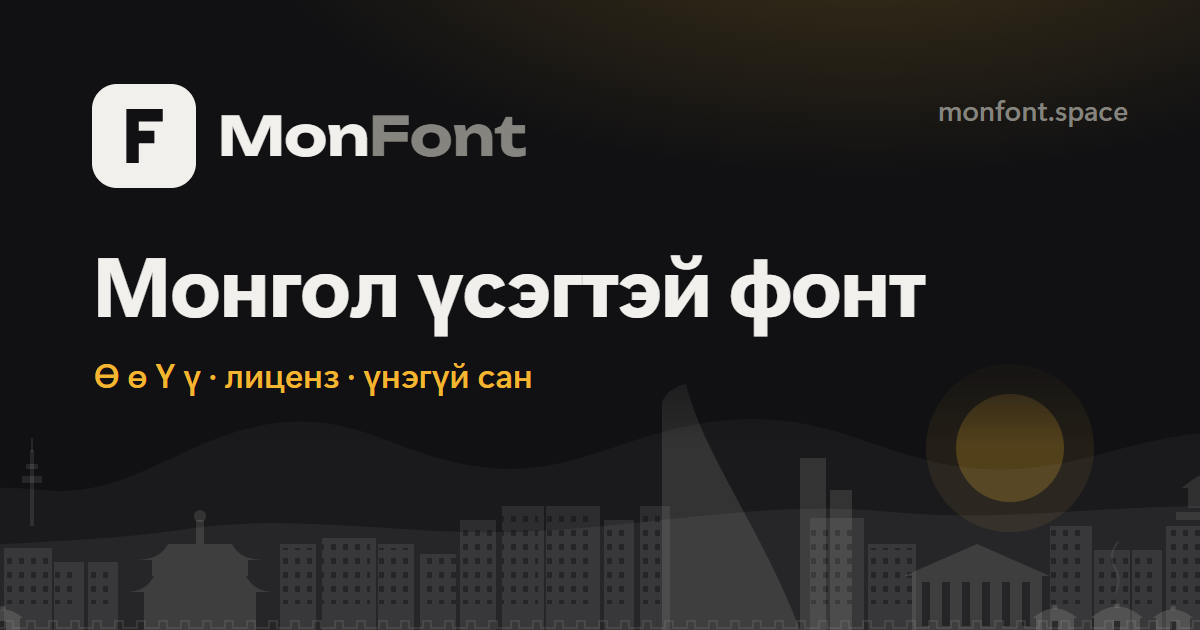
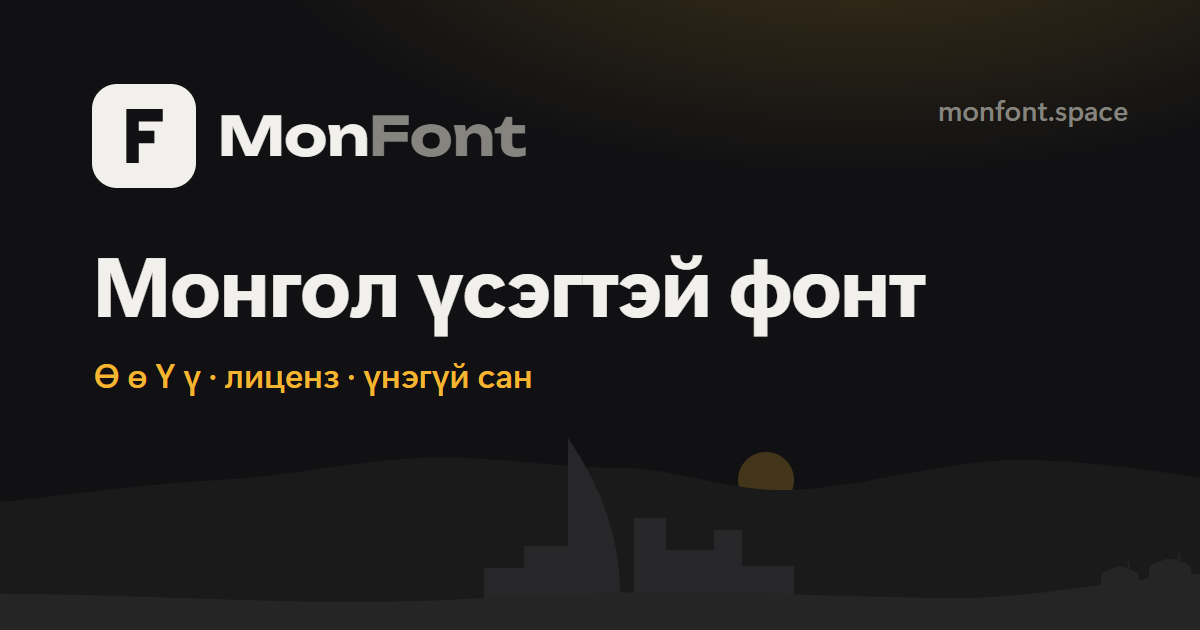
Calmer background: Ulaanbaatar at dusk in three flat tones
Redrawn by an Opus designer agent: one Bogd Khan ridge, the Blue Sky Tower
sail with a small block cluster, a foreground hill with three gers and a
half-set sun. Removed the window patterns, extra landmarks, smoke and border.
SVG is 1.8 KB (was 7.9 KB); tones live in the SVG, so the .skyline opacity
rule is gone. Share card re-rendered with the same artwork.

Changed region(s): [[0.0, 0.6032, 1.0, 1.0]]

diff --git a/tools/og.html b/tools/og.html
@@ -8,7 +8,7 @@
 body { margin:0; width:1200px; height:630px; position:relative; overflow:hidden; color:var(--ink);
   font:400 16px "Segoe UI Variable Text","Segoe UI",system-ui,sans-serif;
   background:radial-gradient(900px 420px at 72% -120px, color-mix(in srgb, var(--star) 22%, transparent), transparent 70%) no-repeat, var(--bg); }
-.sky { position:absolute; left:0; right:0; bottom:0; height:300px; color:var(--ink); opacity:.78;
+.sky { position:absolute; left:0; right:0; bottom:0; height:300px; color:var(--ink); opacity:1;
   -webkit-mask-image:linear-gradient(to top,#000 62%,transparent); mask-image:linear-gradient(to top,#000 62%,transparent); }
 .sky svg { display:block; width:100%; height:100%; }
 .logo { position:absolute; left:92px; top:84px; display:flex; align-items:center; gap:22px; }
@@ -19,7 +19,7 @@ p { position:absolute; left:94px; top:352px; margin:0; font:600 34px/1.3 "Segoe 
 .url { position:absolute; right:72px; top:96px; font:600 28px/1 "Segoe UI Variable Display","Segoe UI",system-ui,sans-serif; color:var(--ink-3); }
 </style>
 <body>
-<div class="sky"><svg viewBox="0 0 1600 300" preserveAspectRatio="xMidYMax slice" xmlns="http://www.w3.org/2000/svg" aria-hidden="true"><g fill="currentColor"><defs><pattern id="skw" width="12" height="14" patternUnits="userSpaceOnUse"><rect x="3" y="4" width="5" height="6" rx="1" style="fill:var(--bg)"/></pattern><pattern id="skm" width="22" height="12" patternUnits="userSpaceOnUse"><path d="M0 10H7V3H15V10H22" fill="none" stroke="currentColor" stroke-width="1.6"/></pattern></defs><circle cx="1210" cy="118" r="54" style="fill:var(--star)" fill-opacity=".30"/><circle cx="1210" cy="118" r="84" style="fill:var(--star)" fill-opacity=".10"/><path fill-opacity=".055" d="M0 212C90 176 150 150 240 160C330 170 380 108 470 94C560 80 600 130 690 138C780 146 830 98 930 90C1030 82 1080 128 1170 138C1260 148 1320 110 1410 102C1480 96 1540 130 1600 152V300H0Z"/><path fill-opacity=".075" d="M0 238C140 208 260 218 380 200C500 182 600 206 720 202C860 196 960 170 1090 182C1220 194 1330 170 1460 178C1520 182 1570 192 1600 198V300H0Z"/><g fill-opacity=".13"><rect x="230" y="120" width="4" height="76"/><rect x="222" y="146" width="20" height="7"/><rect x="226" y="134" width="12" height="5"/><rect x="231" y="108" width="2" height="14"/><path d="M1388 178V158H1456V178Z"/><path d="M1382 158Q1422 122 1462 158Z"/><rect x="1419" y="112" width="3" height="16"/><path d="M1376 182H1468V190H1376Z"/></g><g fill-opacity=".11"><rect x="20" y="206" width="42" height="94"/><rect x="66" y="218" width="30" height="82"/><rect x="102" y="196" width="30" height="104"/><rect x="138" y="232" width="30" height="68"/><rect x="170" y="218" width="30" height="82"/><rect x="204" y="218" width="48" height="82"/><rect x="254" y="232" width="30" height="68"/><rect x="288" y="232" width="30" height="68"/><rect x="480" y="214" width="36" height="86"/><rect x="522" y="208" width="54" height="92"/><rect x="578" y="214" width="36" height="86"/><rect x="620" y="224" width="36" height="76"/><rect x="660" y="190" width="36" height="110"/><rect x="702" y="176" width="42" height="124"/><rect x="746" y="176" width="54" height="124"/><rect x="804" y="190" width="30" height="110"/><rect x="840" y="176" width="30" height="124"/><rect x="1010" y="188" width="54" height="112"/><rect x="1068" y="214" width="48" height="86"/><rect x="1250" y="196" width="42" height="104"/><rect x="1294" y="220" width="36" height="80"/><rect x="1332" y="220" width="30" height="80"/><rect x="1366" y="196" width="54" height="104"/><rect x="1470" y="202" width="48" height="98"/><rect x="1524" y="214" width="30" height="86"/><rect x="1560" y="214" width="48" height="86"/></g><g opacity=".5"><rect x="20" y="210" width="36" height="64" fill="url(#skw)"/><rect x="66" y="222" width="24" height="52" fill="url(#skw)"/><rect x="102" y="200" width="24" height="74" fill="url(#skw)"/><rect x="138" y="236" width="24" height="38" fill="url(#skw)"/><rect x="170" y="222" width="24" height="52" fill="url(#skw)"/><rect x="204" y="222" width="48" height="52" fill="url(#skw)"/><rect x="254" y="236" width="24" height="38" fill="url(#skw)"/><rect x="288" y="236" width="24" height="38" fill="url(#skw)"/><rect x="480" y="218" width="36" height="56" fill="url(#skw)"/><rect x="522" y="212" width="48" height="62" fill="url(#skw)"/><rect x="578" y="218" width="36" height="56" fill="url(#skw)"/><rect x="620" y="228" width="36" height="46" fill="url(#skw)"/><rect x="660" y="194" width="36" height="80" fill="url(#skw)"/><rect x="702" y="180" width="36" height="94" fill="url(#skw)"/><rect x="746" y="180" width="48" height="94" fill="url(#skw)"/><rect x="804" y="194" width="24" height="80" fill="url(#skw)"/><rect x="840" y="180" width="24" height="94" fill="url(#skw)"/><rect x="1010" y="192" width="48" height="82" fill="url(#skw)"/><rect x="1068" y="218" width="48" height="56" fill="url(#skw)"/><rect x="1250" y="200" width="36" height="74" fill="url(#skw)"/><rect x="1294" y="224" width="36" height="50" fill="url(#skw)"/><rect x="1332" y="224" width="24" height="50" fill="url(#skw)"/><rect x="1366" y="200" width="48" height="74" fill="url(#skw)"/><rect x="1470" y="206" width="48" height="68" fill="url(#skw)"/><rect x="1524" y="218" width="24" height="56" fill="url(#skw)"/><rect x="1560" y="218" width="48" height="56" fill="url(#skw)"/></g><g fill-opacity=".15"><path d="M862 300V72C866 62 876 56 886 54C902 122 962 200 1000 300Z"/><path d="M872 300V60C874 96 880 120 890 144" fill="none" stroke="currentColor" stroke-opacity=".0"/><rect x="1000" y="128" width="26" height="172"/><rect x="1030" y="160" width="22" height="140"/><path d="M326 262Q346 262 354 246H446Q454 262 474 262Z"/><rect x="344" y="262" width="112" height="38"/><path d="M352 246V230H448V246Z"/><path d="M336 230Q360 230 368 214H432Q440 230 464 230Z"/><rect x="396" y="190" width="8" height="24"/><circle cx="400" cy="186" r="6"/><rect x="1112" y="246" width="130" height="54"/><path d="M1104 246L1177 214L1250 246Z"/></g><g style="fill:var(--bg)" fill-opacity=".55"><rect x="1122" y="252" width="8" height="44"/><rect x="1142" y="252" width="8" height="44"/><rect x="1162" y="252" width="8" height="44"/><rect x="1182" y="252" width="8" height="44"/><rect x="1202" y="252" width="8" height="44"/><rect x="1222" y="252" width="8" height="44"/></g><g fill-opacity=".2"><path d="M18 300V288H58V300Z"/><path d="M15 288Q38.0 268.0 61 288Z"/><rect x="35.5" y="275.0" width="5" height="4"/></g><rect x="35.0" y="291" width="6" height="9" style="fill:var(--bg)" fill-opacity=".6"/><g fill-opacity=".2"><path d="M74 300V288H108V300Z"/><path d="M71 288Q91.0 271.0 111 288Z"/><rect x="88.5" y="276.2" width="5" height="4"/></g><rect x="88.0" y="291" width="6" height="9" style="fill:var(--bg)" fill-opacity=".6"/><g fill-opacity=".2"><path d="M124 300V288H168V300Z"/><path d="M121 288Q146.0 266.0 171 288Z"/><rect x="143.5" y="274.2" width="5" height="4"/></g><rect x="143.0" y="291" width="6" height="9" style="fill:var(--bg)" fill-opacity=".6"/><g fill-opacity=".2"><path d="M186 300V288H220V300Z"/><path d="M183 288Q203.0 271.0 223 288Z"/><rect x="200.5" y="276.2" width="5" height="4"/></g><rect x="200.0" y="291" width="6" height="9" style="fill:var(--bg)" fill-opacity=".6"/><g fill-opacity=".2"><path d="M1236 300V288H1274V300Z"/><path d="M1233 288Q1255.0 269.0 1277 288Z"/><rect x="1252.5" y="275.4" width="5" height="4"/></g><rect x="1252.0" y="291" width="6" height="9" style="fill:var(--bg)" fill-opacity=".6"/><g fill-opacity=".2"><path d="M1294 300V288H1340V300Z"/><path d="M1291 288Q1317.0 265.0 1343 288Z"/><rect x="1314.5" y="273.8" width="5" height="4"/></g><rect x="1314.0" y="291" width="6" height="9" style="fill:var(--bg)" fill-opacity=".6"/><g fill-opacity=".2"><path d="M1356 300V288H1390V300Z"/><path d="M1353 288Q1373.0 271.0 1393 288Z"/><rect x="1370.5" y="276.2" width="5" height="4"/></g><rect x="1370.0" y="291" width="6" height="9" style="fill:var(--bg)" fill-opacity=".6"/><g fill-opacity=".2"><path d="M1410 300V288H1450V300Z"/><path d="M1407 288Q1430.0 268.0 1453 288Z"/><rect x="1427.5" y="275.0" width="5" height="4"/></g><rect x="1427.0" y="291" width="6" height="9" style="fill:var(--bg)" fill-opacity=".6"/><g fill-opacity=".2"><path d="M1482 300V288H1526V300Z"/><path d="M1479 288Q1504.0 266.0 1529 288Z"/><rect x="1501.5" y="274.2" width="5" height="4"/></g><rect x="1501.0" y="291" width="6" height="9" style="fill:var(--bg)" fill-opacity=".6"/><g fill-opacity=".2"><path d="M1544 300V288H1582V300Z"/><path d="M1541 288Q1563.0 269.0 1585 288Z"/><rect x="1560.5" y="275.4" width="5" height="4"/></g><rect x="1560.0" y="291" width="6" height="9" style="fill:var(--bg)" fill-opacity=".6"/><g fill="none" stroke="currentColor" stroke-opacity=".10" stroke-width="2" stroke-linecap="round"><path d="M141 262q6-14-2-26q-6-12 4-24"/><path d="M1316 262q6-14-2-26q-6-12 4-24"/></g><rect x="0" y="288" width="1600" height="12" fill="url(#skm)" opacity=".16"/></g></svg></div>
+<div class="sky"><svg viewBox="0 0 2000 300" preserveAspectRatio="xMidYMax slice" xmlns="http://www.w3.org/2000/svg" aria-hidden="true"><defs><path id="skr" d="M0 300V200C113.3 197.7 226.7 187.1 340 178C433.3 170.5 526.7 154.7 620 150C686.7 146.7 753.3 131.3 820 128C886.7 124.7 953.3 138 1020 138C1073.3 138 1126.7 160 1180 160C1260 160 1340 130 1420 130C1526.7 130 1633.3 157.3 1740 168C1826.7 176.7 1913.3 189.7 2000 194V300Z"/><mask id="sks"><rect width="2000" height="300" fill="#fff"/><use href="#skr" fill="#000"/></mask><path id="skc" d="M884 300V238H924V300ZM924 300V216H968V300ZM1034 300V188H1066V300ZM1066 300V220H1114V300ZM1114 300V200H1142V300ZM1142 300V236H1194V300ZM968 300V108Q1020 184.6 1020 261.2V300Z"/><path id="skh" d="M0 300V274C133.3 274 266.7 264 400 264C520 264 640 272 760 272C860 272 960 262 1060 262C1160 262 1260 268 1360 268C1453.3 268 1546.7 242 1640 242C1760 242 1880 261.2 2000 266V300ZM1501 259.7V246.5Q1501 242.8 1505.3 241.5L1516.6 237H1523.4L1534.7 241.5Q1539 242.8 1539 246.5V259.7ZM1527.6 243.9V231.7H1529.3V243.9ZM1549 253.6V239.6Q1549 235.5 1553.7 234L1566.2 229.1H1573.8L1586.3 234Q1591 235.5 1591 239.6V253.6ZM1578.4 236.6V223.2H1580.3V236.6ZM1692 251.5V237.9Q1692 234 1696.5 232.6L1708.4 227.9H1715.6L1727.5 232.6Q1732 234 1732 237.9V251.5ZM1720 235.1V222.3H1721.8V235.1Z"/><mask id="skm"><rect width="2000" height="300" fill="#fff"/><use href="#skc" fill="#000"/><use href="#skh" fill="#fff"/></mask><mask id="skn"><rect width="2000" height="300" fill="#fff"/><use href="#skh" fill="#000"/></mask></defs><circle cx="1166" cy="150" r="28" mask="url(#sks)" style="fill:var(--star)" fill-opacity="0.22"/><g fill="currentColor"><use href="#skr" mask="url(#skm)" fill-opacity="0.04"/><use href="#skc" mask="url(#skn)" fill-opacity="0.1"/><use href="#skh" fill-opacity="0.045"/></g></svg></div>
 <div class="logo"><svg viewBox="0 0 100 100"><rect width="100" height="100" rx="24" fill="#f1f0ec"/><path d="M33 24H68V36H45V45H60V57H45V76H33Z" fill="#111113"/></svg><div class="wm">Mon<i>Font</i></div></div>
 <div class="url">monfont.space</div>
 <h1>Монгол үсэгтэй фонт</h1>

diff --git a/index.html b/index.html
@@ -82,7 +82,7 @@ button, input { font: inherit; color: inherit; }
 button { cursor: pointer; }
 a { color: inherit; }
 :focus-visible { outline: 2px solid var(--focus); outline-offset: 2px; }
-.skyline { position: fixed; left: 0; right: 0; bottom: 0; height: clamp(170px, 30vh, 330px); z-index: -1; pointer-events: none; color: var(--ink); opacity: .65; -webkit-mask-image: linear-gradient(to top, #000 62%, transparent); mask-image: linear-gradient(to top, #000 62%, transparent); }
+.skyline { position: fixed; left: 0; right: 0; bottom: 0; height: clamp(170px, 30vh, 330px); z-index: -1; pointer-events: none; color: var(--ink); -webkit-mask-image: linear-gradient(to top, #000 62%, transparent); mask-image: linear-gradient(to top, #000 62%, transparent); }
 .skyline svg { display: block; width: 100%; height: 100%; }
 .wrap { max-width: 1480px; margin-inline: auto; padding-inline: 24px; }
 
@@ -351,7 +351,7 @@ h3 { font-size: 12px; text-transform: uppercase; letter-spacing: .08em; color: v
 </style>
 </head>
 <body>
-<div class="skyline" aria-hidden="true"><svg viewBox="0 0 1600 300" preserveAspectRatio="xMidYMax slice" xmlns="http://www.w3.org/2000/svg" aria-hidden="true"><g fill="currentColor"><defs><pattern id="skw" width="12" height="14" patternUnits="userSpaceOnUse"><rect x="3" y="4" width="5" height="6" rx="1" style="fill:var(--bg)"/></pattern><pattern id="skm" width="22" height="12" patternUnits="userSpaceOnUse"><path d="M0 10H7V3H15V10H22" fill="none" stroke="currentColor" stroke-width="1.6"/></pattern></defs><circle cx="1210" cy="118" r="54" style="fill:var(--star)" fill-opacity=".30"/><circle cx="1210" cy="118" r="84" style="fill:var(--star)" fill-opacity=".10"/><path fill-opacity=".055" d="M0 212C90 176 150 150 240 160C330 170 380 108 470 94C560 80 600 130 690 138C780 146 830 98 930 90C1030 82 1080 128 1170 138C1260 148 1320 110 1410 102C1480 96 1540 130 1600 152V300H0Z"/><path fill-opacity=".075" d="M0 238C140 208 260 218 380 200C500 182 600 206 720 202C860 196 960 170 1090 182C1220 194 1330 170 1460 178C1520 182 1570 192 1600 198V300H0Z"/><g fill-opacity=".13"><rect x="230" y="120" width="4" height="76"/><rect x="222" y="146" width="20" height="7"/><rect x="226" y="134" width="12" height="5"/><rect x="231" y="108" width="2" height="14"/><path d="M1388 178V158H1456V178Z"/><path d="M1382 158Q1422 122 1462 158Z"/><rect x="1419" y="112" width="3" height="16"/><path d="M1376 182H1468V190H1376Z"/></g><g fill-opacity=".11"><rect x="20" y="206" width="42" height="94"/><rect x="66" y="218" width="30" height="82"/><rect x="102" y="196" width="30" height="104"/><rect x="138" y="232" width="30" height="68"/><rect x="170" y="218" width="30" height="82"/><rect x="204" y="218" width="48" height="82"/><rect x="254" y="232" width="30" height="68"/><rect x="288" y="232" width="30" height="68"/><rect x="480" y="214" width="36" height="86"/><rect x="522" y="208" width="54" height="92"/><rect x="578" y="214" width="36" height="86"/><rect x="620" y="224" width="36" height="76"/><rect x="660" y="190" width="36" height="110"/><rect x="702" y="176" width="42" height="124"/><rect x="746" y="176" width="54" height="124"/><rect x="804" y="190" width="30" height="110"/><rect x="840" y="176" width="30" height="124"/><rect x="1010" y="188" width="54" height="112"/><rect x="1068" y="214" width="48" height="86"/><rect x="1250" y="196" width="42" height="104"/><rect x="1294" y="220" width="36" height="80"/><rect x="1332" y="220" width="30" height="80"/><rect x="1366" y="196" width="54" height="104"/><rect x="1470" y="202" width="48" height="98"/><rect x="1524" y="214" width="30" height="86"/><rect x="1560" y="214" width="48" height="86"/></g><g opacity=".5"><rect x="20" y="210" width="36" height="64" fill="url(#skw)"/><rect x="66" y="222" width="24" height="52" fill="url(#skw)"/><rect x="102" y="200" width="24" height="74" fill="url(#skw)"/><rect x="138" y="236" width="24" height="38" fill="url(#skw)"/><rect x="170" y="222" width="24" height="52" fill="url(#skw)"/><rect x="204" y="222" width="48" height="52" fill="url(#skw)"/><rect x="254" y="236" width="24" height="38" fill="url(#skw)"/><rect x="288" y="236" width="24" height="38" fill="url(#skw)"/><rect x="480" y="218" width="36" height="56" fill="url(#skw)"/><rect x="522" y="212" width="48" height="62" fill="url(#skw)"/><rect x="578" y="218" width="36" height="56" fill="url(#skw)"/><rect x="620" y="228" width="36" height="46" fill="url(#skw)"/><rect x="660" y="194" width="36" height="80" fill="url(#skw)"/><rect x="702" y="180" width="36" height="94" fill="url(#skw)"/><rect x="746" y="180" width="48" height="94" fill="url(#skw)"/><rect x="804" y="194" width="24" height="80" fill="url(#skw)"/><rect x="840" y="180" width="24" height="94" fill="url(#skw)"/><rect x="1010" y="192" width="48" height="82" fill="url(#skw)"/><rect x="1068" y="218" width="48" height="56" fill="url(#skw)"/><rect x="1250" y="200" width="36" height="74" fill="url(#skw)"/><rect x="1294" y="224" width="36" height="50" fill="url(#skw)"/><rect x="1332" y="224" width="24" height="50" fill="url(#skw)"/><rect x="1366" y="200" width="48" height="74" fill="url(#skw)"/><rect x="1470" y="206" width="48" height="68" fill="url(#skw)"/><rect x="1524" y="218" width="24" height="56" fill="url(#skw)"/><rect x="1560" y="218" width="48" height="56" fill="url(#skw)"/></g><g fill-opacity=".15"><path d="M862 300V72C866 62 876 56 886 54C902 122 962 200 1000 300Z"/><path d="M872 300V60C874 96 880 120 890 144" fill="none" stroke="currentColor" stroke-opacity=".0"/><rect x="1000" y="128" width="26" height="172"/><rect x="1030" y="160" width="22" height="140"/><path d="M326 262Q346 262 354 246H446Q454 262 474 262Z"/><rect x="344" y="262" width="112" height="38"/><path d="M352 246V230H448V246Z"/><path d="M336 230Q360 230 368 214H432Q440 230 464 230Z"/><rect x="396" y="190" width="8" height="24"/><circle cx="400" cy="186" r="6"/><rect x="1112" y="246" width="130" height="54"/><path d="M1104 246L1177 214L1250 246Z"/></g><g style="fill:var(--bg)" fill-opacity=".55"><rect x="1122" y="252" width="8" height="44"/><rect x="1142" y="252" width="8" height="44"/><rect x="1162" y="252" width="8" height="44"/><rect x="1182" y="252" width="8" height="44"/><rect x="1202" y="252" width="8" height="44"/><rect x="1222" y="252" width="8" height="44"/></g><g fill-opacity=".2"><path d="M18 300V288H58V300Z"/><path d="M15 288Q38.0 268.0 61 288Z"/><rect x="35.5" y="275.0" width="5" height="4"/></g><rect x="35.0" y="291" width="6" height="9" style="fill:var(--bg)" fill-opacity=".6"/><g fill-opacity=".2"><path d="M74 300V288H108V300Z"/><path d="M71 288Q91.0 271.0 111 288Z"/><rect x="88.5" y="276.2" width="5" height="4"/></g><rect x="88.0" y="291" width="6" height="9" style="fill:var(--bg)" fill-opacity=".6"/><g fill-opacity=".2"><path d="M124 300V288H168V300Z"/><path d="M121 288Q146.0 266.0 171 288Z"/><rect x="143.5" y="274.2" width="5" height="4"/></g><rect x="143.0" y="291" width="6" height="9" style="fill:var(--bg)" fill-opacity=".6"/><g fill-opacity=".2"><path d="M186 300V288H220V300Z"/><path d="M183 288Q203.0 271.0 223 288Z"/><rect x="200.5" y="276.2" width="5" height="4"/></g><rect x="200.0" y="291" width="6" height="9" style="fill:var(--bg)" fill-opacity=".6"/><g fill-opacity=".2"><path d="M1236 300V288H1274V300Z"/><path d="M1233 288Q1255.0 269.0 1277 288Z"/><rect x="1252.5" y="275.4" width="5" height="4"/></g><rect x="1252.0" y="291" width="6" height="9" style="fill:var(--bg)" fill-opacity=".6"/><g fill-opacity=".2"><path d="M1294 300V288H1340V300Z"/><path d="M1291 288Q1317.0 265.0 1343 288Z"/><rect x="1314.5" y="273.8" width="5" height="4"/></g><rect x="1314.0" y="291" width="6" height="9" style="fill:var(--bg)" fill-opacity=".6"/><g fill-opacity=".2"><path d="M1356 300V288H1390V300Z"/><path d="M1353 288Q1373.0 271.0 1393 288Z"/><rect x="1370.5" y="276.2" width="5" height="4"/></g><rect x="1370.0" y="291" width="6" height="9" style="fill:var(--bg)" fill-opacity=".6"/><g fill-opacity=".2"><path d="M1410 300V288H1450V300Z"/><path d="M1407 288Q1430.0 268.0 1453 288Z"/><rect x="1427.5" y="275.0" width="5" height="4"/></g><rect x="1427.0" y="291" width="6" height="9" style="fill:var(--bg)" fill-opacity=".6"/><g fill-opacity=".2"><path d="M1482 300V288H1526V300Z"/><path d="M1479 288Q1504.0 266.0 1529 288Z"/><rect x="1501.5" y="274.2" width="5" height="4"/></g><rect x="1501.0" y="291" width="6" height="9" style="fill:var(--bg)" fill-opacity=".6"/><g fill-opacity=".2"><path d="M1544 300V288H1582V300Z"/><path d="M1541 288Q1563.0 269.0 1585 288Z"/><rect x="1560.5" y="275.4" width="5" height="4"/></g><rect x="1560.0" y="291" width="6" height="9" style="fill:var(--bg)" fill-opacity=".6"/><g fill="none" stroke="currentColor" stroke-opacity=".10" stroke-width="2" stroke-linecap="round"><path d="M141 262q6-14-2-26q-6-12 4-24"/><path d="M1316 262q6-14-2-26q-6-12 4-24"/></g><rect x="0" y="288" width="1600" height="12" fill="url(#skm)" opacity=".16"/></g></svg></div>
+<div class="skyline" aria-hidden="true"><svg viewBox="0 0 2000 300" preserveAspectRatio="xMidYMax slice" xmlns="http://www.w3.org/2000/svg" aria-hidden="true" focusable="false"><defs><path id="skr" d="M0 300V200C113.3 197.7 226.7 187.1 340 178C433.3 170.5 526.7 154.7 620 150C686.7 146.7 753.3 131.3 820 128C886.7 124.7 953.3 138 1020 138C1073.3 138 1126.7 160 1180 160C1260 160 1340 130 1420 130C1526.7 130 1633.3 157.3 1740 168C1826.7 176.7 1913.3 189.7 2000 194V300Z"/><mask id="sks"><rect width="2000" height="300" fill="#fff"/><use href="#skr" fill="#000"/></mask><path id="skc" d="M884 300V238H924V300ZM924 300V216H968V300ZM1034 300V188H1066V300ZM1066 300V220H1114V300ZM1114 300V200H1142V300ZM1142 300V236H1194V300ZM968 300V108Q1020 184.6 1020 261.2V300Z"/><path id="skh" d="M0 300V274C133.3 274 266.7 264 400 264C520 264 640 272 760 272C860 272 960 262 1060 262C1160 262 1260 268 1360 268C1453.3 268 1546.7 242 1640 242C1760 242 1880 261.2 2000 266V300ZM1501 259.7V246.5Q1501 242.8 1505.3 241.5L1516.6 237H1523.4L1534.7 241.5Q1539 242.8 1539 246.5V259.7ZM1527.6 243.9V231.7H1529.3V243.9ZM1549 253.6V239.6Q1549 235.5 1553.7 234L1566.2 229.1H1573.8L1586.3 234Q1591 235.5 1591 239.6V253.6ZM1578.4 236.6V223.2H1580.3V236.6ZM1692 251.5V237.9Q1692 234 1696.5 232.6L1708.4 227.9H1715.6L1727.5 232.6Q1732 234 1732 237.9V251.5ZM1720 235.1V222.3H1721.8V235.1Z"/><mask id="skm"><rect width="2000" height="300" fill="#fff"/><use href="#skc" fill="#000"/><use href="#skh" fill="#fff"/></mask><mask id="skn"><rect width="2000" height="300" fill="#fff"/><use href="#skh" fill="#000"/></mask></defs><circle cx="1166" cy="150" r="28" mask="url(#sks)" style="fill:var(--star)" fill-opacity="0.22"/><g fill="currentColor"><use href="#skr" mask="url(#skm)" fill-opacity="0.04"/><use href="#skc" mask="url(#skn)" fill-opacity="0.1"/><use href="#skh" fill-opacity="0.045"/></g></svg></div>
 <div id="bar" class="bar" hidden><span></span></div>
 
 
